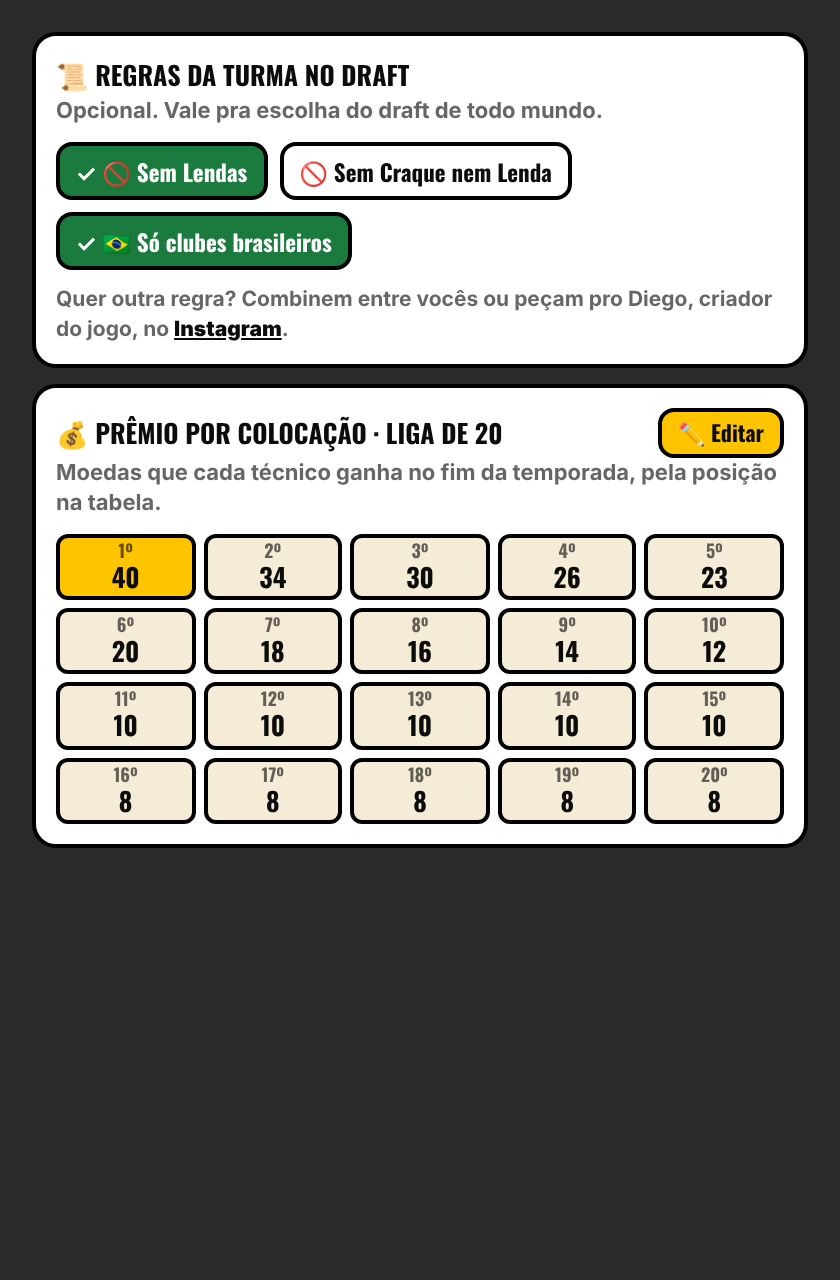
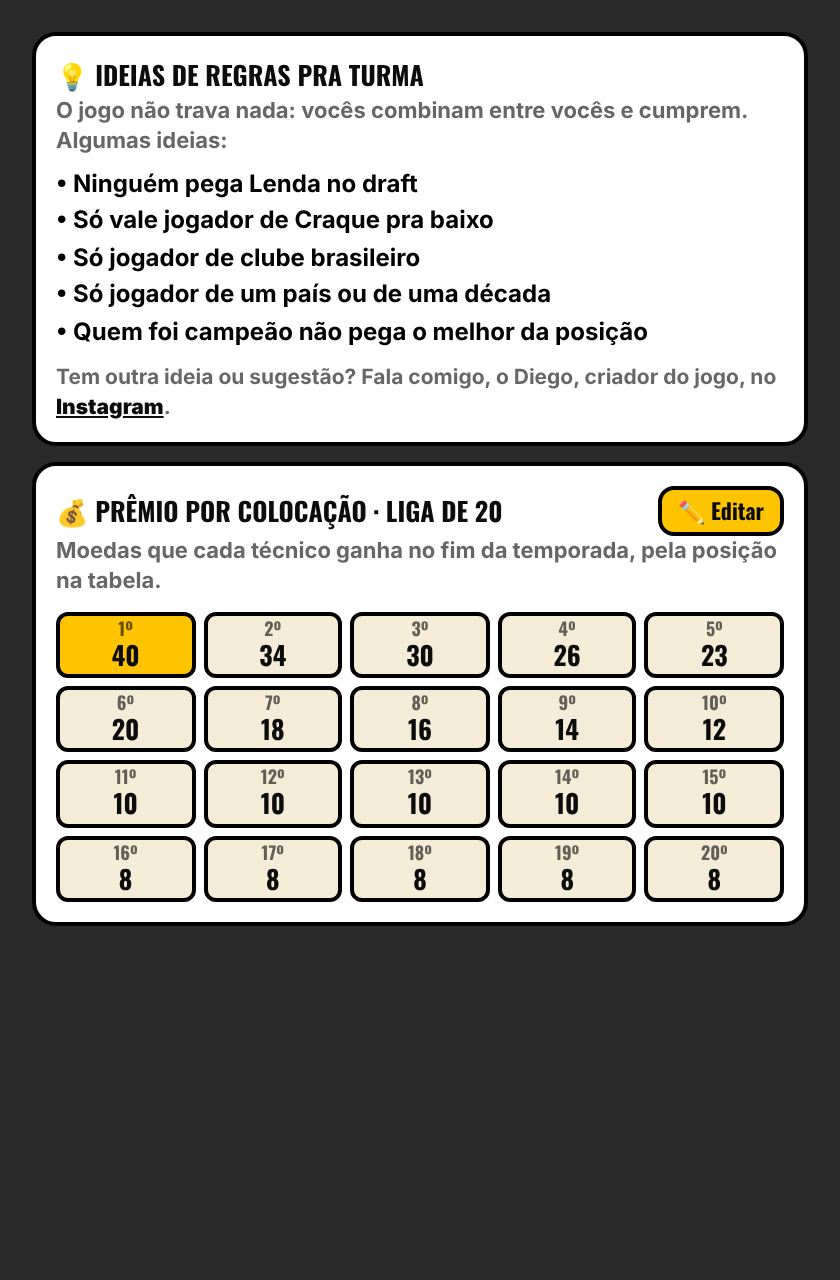
Liga Draft: regras viram só ideias pra turma combinar (sem botões) + convite pra falar com o Diego no Instagram; prêmio editável continua
Claude-Session: https://claude.ai/code/session_012GPrTDbpvrApA6DArkzCpE

Changed region(s): [[0.031, 0.0312, 0.9595, 0.75]]

diff --git a/src/escalacao/lobby.tsx b/src/escalacao/lobby.tsx
@@ -875,7 +875,6 @@ export function EscLobby() {
   const [ligaHora, setLigaHora] = useState(proxMeiaHora.hora)
   const [ligaComBots, setLigaComBots] = useState(true) // 🤖 padrão COM bots (Diego 29/08)
   // 📜💰 05/11: regras da turma no draft + prêmio por colocação (null = padrão do tamanho) — escolhidos ao CRIAR a Liga Draft
-  const [draftRegrasSel, setDraftRegrasSel] = useState<RegrasDraft>({})
   const [draftPremiosSel, setDraftPremiosSel] = useState<number[] | null>(null)
   const premiosTimer = useRef<ReturnType<typeof setTimeout> | null>(null)
   const [ligaTamanho, setLigaTamanho] = useState<20 | 10>(20)
@@ -2117,7 +2116,7 @@ export function EscLobby() {
     const tam10Sala = !carreira && !elenco && !mundo && tam10Vale
     const gs = { __game: tagAtual(), ...(getSport() === 'basquete' ? { sport: 'basquete' as const } : {}), formation, roomName: name, ...(locked ? { locked: true, pwHash } : {}), ...(roomStream ? { stream: true } : {}), ...(roomStream && plataformaDaLive(liveUrl) ? { liveUrl: liveUrl.trim() } : {}), ...((roomManual && hasManual && !carreira) ? { manual: true } : {}), ...(pode2d && room2d && getSport() !== 'basquete' ? { campo2d: true } : {}), ...(roomChat ? {} : { chatOff: true }), ...(roomStream && !rapidoHolandes && !rapidoPregao && auctionSecs !== 45 ? { auctionSecs } : {}), ...(carreira ? { mode: 'carreira', deck: careerDeck, deckSala: careerDeck, rivals: careerRivals, rivalTeams: careerRivalPicks } : { deck: rapidoDeck, deckSala: rapidoDeck, ...(mundo ? { mode: 'mundo', copaMode: 'liga' } : elenco ? { mode: 'elenco', copaMode: 'liga', ...(bafoValendo ? {} : { bafoSemCarta: true }) } : (rapidoCopaMode === 'liga_mundo' ? { copaMode: 'liga', mundoNaLiga: true } : rapidoCopaMode === 'liga_euro' ? { copaMode: 'liga', mundoNaLiga: true, euroNaLiga: 24 } : regionalId(rapidoCopaMode) ? { copaMode: 'liga', regionalNaLiga: regionalId(rapidoCopaMode) } : { copaMode: rapidoCopaMode, ...(rapidoCopaMode === 'relampago' ? { relampagoChave } : {}) })), ...(rapidoDeck === 'br' && rapidoVarzea ? { varzea: true } : {}), ...((roomMode === 'rapido' || liga) && clubesOn && rapidoClubes ? { clubes: true, deck: 'todos', deckSala: 'todos', ...(getSport() !== 'basquete' && pacSelecao ? { pacSelecao: true } : {}), ...(getSport() !== 'basquete' && pacDecada ? { pacDecada: true } : {}) } : {}), ...((roomMode === 'rapido' || liga) && envUnicoOk && rapidoEnvUnico && !roomDuplas ? { envUnico: true } : (roomMode === 'rapido' || liga) && pregaoAbertoOk && rapidoPregao && rapidoCopaMode !== 'champions' ? { pregaoAberto: true } : (roomMode === 'rapido' || liga) && rapidoHolandes ? { holandes: true } : {}), ...(liga ? { mode: 'liga', ligaAt, ligaFechada: !ligaComBots } : {}), ...(roomDuplas && !mundo ? { duplasMode: true } : {}), ...(tam10Sala ? { tamanhoLiga: 10 } : {}) }), // 🏟 04/11: liga de 10 times
       // 📋 LIGA DRAFT (19/10): o que é fixo no modo (caixa "Já vem pronto" do mockup) — jogador, baralho Todos, só a liga, solo
-      ...(liga && ehDraft ? { ligaDraft: true, ...(ehMinha ? { minhaLigaDraft: true, ...(ligaComBots && ligaTamanho === 10 ? { tamanhoLiga: 10 } : {}), ...(Object.values(draftRegrasSel).some(Boolean) ? { draftRegras: draftRegrasSel } : {}), ...(draftPremiosSel ? { draftPremios: draftPremiosSel } : {}) } : {}), deck: ehMinha ? rapidoDeck : 'todos', deckSala: ehMinha ? rapidoDeck : 'todos', copaMode: 'liga', clubes: undefined, mundoNaLiga: undefined, regionalNaLiga: undefined, varzea: undefined, duplasMode: undefined } : {}) }
+      ...(liga && ehDraft ? { ligaDraft: true, ...(ehMinha ? { minhaLigaDraft: true, ...(ligaComBots && ligaTamanho === 10 ? { tamanhoLiga: 10 } : {}), ...(draftPremiosSel ? { draftPremios: draftPremiosSel } : {}) } : {}), deck: ehMinha ? rapidoDeck : 'todos', deckSala: ehMinha ? rapidoDeck : 'todos', copaMode: 'liga', clubes: undefined, mundoNaLiga: undefined, regionalNaLiga: undefined, varzea: undefined, duplasMode: undefined } : {}) }
     // 🏀 19/10: sala de basquete não leva marca de competição de FUTEBOL. Os seletores ficam escondidos no basquete,
     // mas o valor deles fica guardado se a pessoa mexeu numa sala de futebol antes, sem sair da tela.
     // (🧱 Clubes vale no basquete desde 19/10 — o deck 'todos' que ele grava é ignorado: o basquete usa sempre a NBA.)
@@ -3729,11 +3728,10 @@ export function EscLobby() {
                         : tr('Ex.: 3 de vocês + 17 bots. Cabem até 20 pessoas. Temporada de 38 rodadas.', 'E.g. 3 of you + 17 bots. Up to 20 people. 38-round season.')}</p>
                     </div>
                   </>)}
-                  {/* 📜💰 05/11 (Diego): regras da turma pro draft + prêmio por colocação (padrão pelo tamanho; o criador edita) */}
+                  {/* 💡💰 05/11 (Diego): ideias de regras (só texto) + prêmio por colocação (padrão pelo tamanho; o criador edita) */}
                   {ehMinha && (
                     <div className="mt-3">
-                      <ConfigLigaDraft regras={draftRegrasSel} premios={draftPremiosSel} nTimes={ligaComBots ? ligaTamanho : 20}
-                        onRegras={setDraftRegrasSel} onPremios={setDraftPremiosSel} />
+                      <ConfigLigaDraft premios={draftPremiosSel} nTimes={ligaComBots ? ligaTamanho : 20} onPremios={setDraftPremiosSel} />
                     </div>
                   )}
                   {/* 🔒 SENHA OBRIGATÓRIA + AS REGRAS ESCRITAS (Diego 29/08: *"somente
@@ -5066,10 +5064,8 @@ export function EscLobby() {
             {(gs as GS & { minhaLigaDraft?: boolean })?.minhaLigaDraft && (
               <div className="mt-3">
                 <ConfigLigaDraft soLeitura={!mandaNaLiga}
-                  regras={(gs as GS & { draftRegras?: RegrasDraft })?.draftRegras ?? {}}
                   premios={(gs as GS & { draftPremios?: number[] | null })?.draftPremios ?? null}
                   nTimes={(gs as GS & { tamanhoLiga?: number })?.tamanhoLiga === 10 ? 10 : 20}
-                  onRegras={r => { void patchDraftLiga({ regras: r }) }}
                   onPremios={pm => {
                     setRoom(rr => (rr ? { ...rr, game_state: { ...(rr.game_state as GS), draftPremios: pm } as GS } : rr))
                     if (premiosTimer.current) clearTimeout(premiosTimer.current)

diff --git a/src/escalacao/liga-draft-config.tsx b/src/escalacao/liga-draft-config.tsx
@@ -1,50 +1,39 @@
-// 📜💰 CONFIGURAÇÃO DA LIGA DRAFT (05/11, Diego): regras da turma pro draft + prêmio por colocação editável.
-// Aparece na hora de CRIAR a Liga Draft e na sala de espera (só o dono mexe). O padrão do prêmio sai do tamanho da liga (10 ou
-// 20 times); o dono pode trocar qualquer valor. As regras valem pra escolha do draft de todo mundo (a mesma função no motor e na
-// tela: `cartaPermitidaDraft`).
+// 💡💰 CONFIGURAÇÃO DA LIGA DRAFT (05/11, Diego): ideias de regras pra turma combinar (só texto) + prêmio por colocação editável.
+// Aparece na hora de CRIAR a Liga Draft e na sala de espera (só o dono edita o prêmio). O padrão do prêmio sai do tamanho da liga
+// (10 ou 20 times); o dono pode trocar qualquer valor.
 import { useState } from 'react'
 import { useT } from './lang'
-import { premiosPadraoDraft, type RegrasDraft } from './liga-draft'
+import { premiosPadraoDraft } from './liga-draft'
 
-const INK = '#0C0C0C', GOLD = '#FFC400', GREEN = '#1B7A3D'
+const INK = '#0C0C0C', GOLD = '#FFC400'
 const OSW = { fontFamily: 'Oswald, sans-serif', fontWeight: 800 } as const
 const INSTA = 'https://instagram.com/leilaolegendscom'
 
-export function ConfigLigaDraft({ regras, premios, nTimes, onRegras, onPremios, soLeitura = false }: {
-  regras: RegrasDraft; premios: number[] | null; nTimes: number
-  onRegras: (r: RegrasDraft) => void; onPremios: (p: number[] | null) => void; soLeitura?: boolean
+export function ConfigLigaDraft({ premios, nTimes, onPremios, soLeitura = false }: {
+  premios: number[] | null; nTimes: number; onPremios: (p: number[] | null) => void; soLeitura?: boolean
 }) {
   const t = useT()
   const [editando, setEditando] = useState(false)
   const padrao = premiosPadraoDraft(nTimes)
   const valores = padrao.map((v, i) => premios?.[i] ?? v)
-  const opc: [keyof RegrasDraft, string][] = [
-    ['semLendas', t('🚫 Sem Lendas', '🚫 No Legends')],
-    ['semCraques', t('🚫 Sem Craque nem Lenda', '🚫 No Stars or Legends')],
-    ['soBrasil', t('🇧🇷 Só clubes brasileiros', '🇧🇷 Brazilian clubs only')],
+  // 💡 05/11 (Diego: *"tire as opções de apertar… só coloque ideias pros usuários combinarem entre eles… ou qualquer sugestão
+  // continue falando pra falar comigo"*): são SÓ ideias — o jogo não trava nada; a turma combina e cumpre.
+  const ideias = [
+    t('Ninguém pega Lenda no draft', 'Nobody drafts a Legend'),
+    t('Só vale jogador de Craque pra baixo', 'Only players below Star level'),
+    t('Só jogador de clube brasileiro', 'Only players from Brazilian clubs'),
+    t('Só jogador de um país ou de uma década', 'Only players from one country or one decade'),
+    t('Quem foi campeão não pega o melhor da posição', 'The champion can’t take the best at a position'),
   ]
-  const toggle = (k: keyof RegrasDraft) => {
-    if (soLeitura) return
-    const n = { ...regras, [k]: !regras[k] }
-    if (k === 'semCraques' && n.semCraques) n.semLendas = false // "sem craque" já tira a lenda junto
-    if (k === 'semLendas' && n.semLendas) n.semCraques = false
-    onRegras(n)
-  }
   return (
     <div className="space-y-2">
       <div className="rounded-xl border-2 border-black p-2.5 bg-white">
-        <p className="text-[13px] uppercase" style={{ ...OSW, color: INK }}>📜 {t('Regras da turma no draft', 'Crew rules for the draft')}</p>
-        <p className="text-[11px] font-bold text-black/60 leading-snug">{t('Opcional. Vale pra escolha do draft de todo mundo.', 'Optional. Applies to everyone’s draft pick.')}</p>
-        <div className="flex flex-wrap gap-1.5 mt-2">
-          {opc.map(([k, label]) => (
-            <button key={k} type="button" disabled={soLeitura} onClick={() => toggle(k)}
-              className="border-2 border-black rounded-lg px-2 py-1 text-[11.5px] font-black"
-              style={{ ...OSW, background: regras[k] ? GREEN : '#fff', color: regras[k] ? '#fff' : INK, opacity: soLeitura && !regras[k] ? .45 : 1 }}>
-              {regras[k] ? '✓ ' : ''}{label}
-            </button>
-          ))}
-        </div>
-        <p className="text-[10.5px] font-bold text-black/60 leading-snug mt-2">{t('Quer outra regra? Combinem entre vocês ou peçam pro Diego, criador do jogo, no ', 'Want another rule? Agree on it among yourselves or ask Diego, the game’s creator, on ')}<a href={INSTA} target="_blank" rel="noopener noreferrer" className="underline font-black" style={{ color: INK }}>Instagram</a>.</p>
+        <p className="text-[13px] uppercase" style={{ ...OSW, color: INK }}>💡 {t('Ideias de regras pra turma', 'Rule ideas for your crew')}</p>
+        <p className="text-[11px] font-bold text-black/60 leading-snug">{t('O jogo não trava nada: vocês combinam entre vocês e cumprem. Algumas ideias:', 'The game doesn’t enforce these: you agree among yourselves. A few ideas:')}</p>
+        <ul className="mt-1.5 space-y-0.5">
+          {ideias.map(x => <li key={x} className="text-[12px] font-bold text-black leading-snug">• {x}</li>)}
+        </ul>
+        <p className="text-[10.5px] font-bold text-black/60 leading-snug mt-2">{t('Tem outra ideia ou sugestão? Fala comigo, o Diego, criador do jogo, no ', 'Got another idea or suggestion? Talk to me, Diego, the game’s creator, on ')}<a href={INSTA} target="_blank" rel="noopener noreferrer" className="underline font-black" style={{ color: INK }}>Instagram</a>.</p>
       </div>
       <div className="rounded-xl border-2 border-black p-2.5 bg-white">
         <div className="flex items-center justify-between gap-2">

diff --git a/scripts/teste-liga-draft-config/main.tsx b/scripts/teste-liga-draft-config/main.tsx
@@ -1,13 +1,11 @@
-// 🧪 Foto do quadro "📜 Regras da turma + 💰 Prêmio" da Liga Draft (05/11). ?editar=1 abre a edição; ?n=10 mostra a liga de 10.
+// 🧪 Foto do quadro "💡 Ideias de regras + 💰 Prêmio" da Liga Draft (05/11). ?n=10 mostra a liga de 10.
 import '../../src/index.css'
 import { useState } from 'react'
 import { createRoot } from 'react-dom/client'
 import { ConfigLigaDraft } from '../../src/escalacao/liga-draft-config'
-import type { RegrasDraft } from '../../src/escalacao/liga-draft'
 const q = new URLSearchParams(location.search)
 function App() {
-  const [r, setR] = useState<RegrasDraft>({ semLendas: true, soBrasil: true })
   const [p, setP] = useState<number[] | null>(null)
-  return <div style={{ maxWidth: 420, margin: '0 auto', padding: 16, background: '#2a2a2a', minHeight: '100vh' }}><ConfigLigaDraft regras={r} premios={p} nTimes={Number(q.get('n') ?? 20)} onRegras={setR} onPremios={setP} /></div>
+  return <div style={{ maxWidth: 420, margin: '0 auto', padding: 16, background: '#2a2a2a', minHeight: '100vh' }}><ConfigLigaDraft premios={p} nTimes={Number(q.get('n') ?? 20)} onPremios={setP} /></div>
 }
 createRoot(document.getElementById('root')!).render(<App />)

diff --git a/docs/pendencias.md b/docs/pendencias.md
@@ -12394,3 +12394,6 @@ Não retomar sem ele pedir.
   tela esconde, motor recusa). Texto: "Quer outra regra? Combinem entre vocês ou peçam pro Diego, criador do jogo, no Instagram".
   As regras/prêmio editados na sala de espera valem a partir da próxima abertura da liga. Trava: `scripts/testa-liga-draft-regras.mts`.
   Fotos: `scripts/mockups/liga-draft-regras-premio*.png`.
+- 🔁 05/11 (Diego: *"tire as opções de apertar… só coloque ideias pros usuários combinarem entre eles… qualquer sugestão, falar comigo"*):
+  as REGRAS viraram só um quadro "💡 Ideias de regras pra turma" (texto, o jogo não trava nada) + "fala comigo no Instagram". O motor
+  (`cartaPermitidaDraft`, `draftRegras`, `liga_patch_draft` p_regras) ficou DORMENTE: ninguém liga, nada muda no jogo. Prêmio editável continua.
